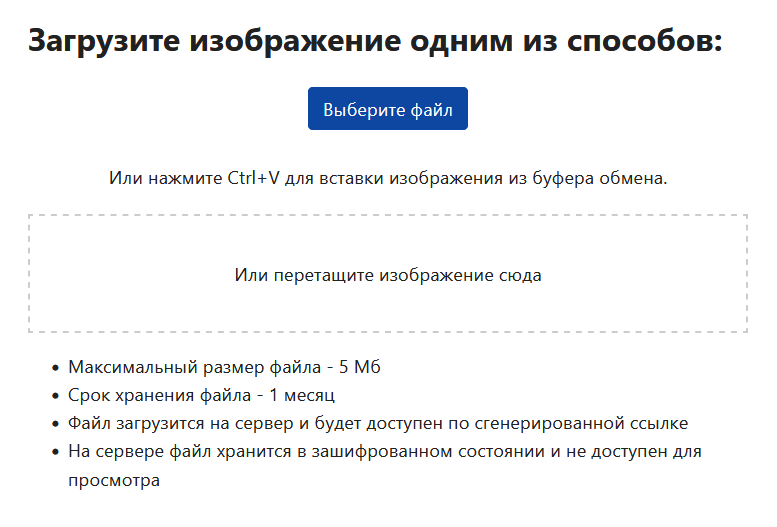
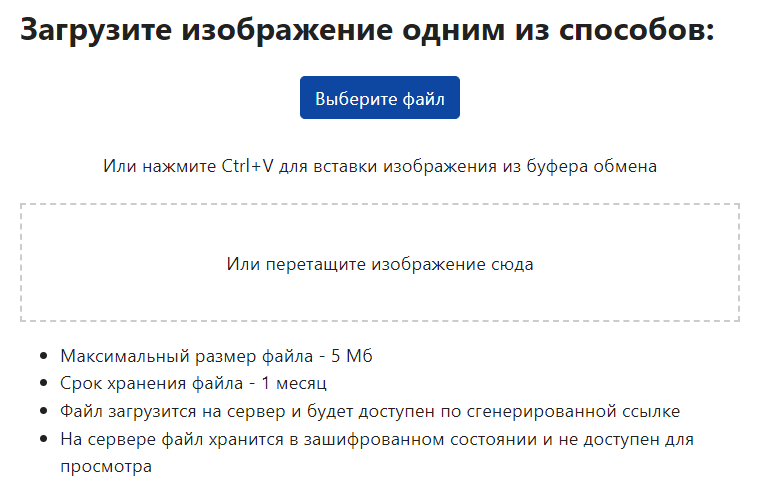
fix

diff --git a/templates/index.html b/templates/index.html
@@ -27,7 +27,7 @@
         <input type="file" id="fileElem" accept="image/*" onchange="handleFiles(this.files)" style="display: none;" >
         <input type="button" value="Выберите файл" onclick="document.getElementById('fileElem').click();" />        
     </div>
-    <p>Или нажмите Ctrl+V для вставки изображения из буфера обмена.</p>
+    <p>Или нажмите Ctrl+V для вставки изображения из буфера обмена</p>
     <!-- Перетаскивание -->
     <div id="drop-area">
         <p>Или перетащите изображение сюда</p>
@@ -102,7 +102,7 @@
                 document.execCommand('copy');
                 document.body.removeChild(tempInput);
 
-                alert('Ваш файл доступен по ссылке: ' + data.image_url);
+                alert('Ссылка на изображение скопирована в буфер обмена\n' + data.image_url);
             }
         })
         .catch(error => {

diff --git a/README.md b/README.md
@@ -5,3 +5,5 @@
 
 |![Пример](screen.png)|
 |-|
+|![Пример](screen2.png)|
+|-|
